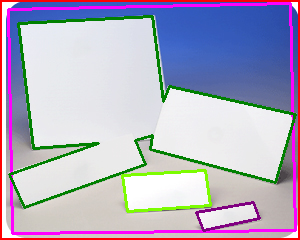
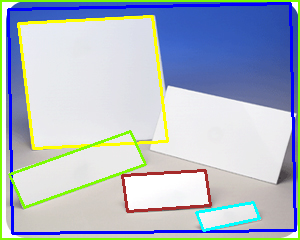
one more square to go

Changed region(s): [[0.0, 0.0, 1.0, 1.0], [0.63, 0.3792, 0.84, 0.4375]]

diff --git a/_masters_/ml/square-contours/contours.py b/_masters_/ml/square-contours/contours.py
@@ -46,6 +46,33 @@ class Vector:
         return f'{self.pt_from} -> {self.pt_to}'
 
 
+class SimpleSquare:
+    def __init__(self, p1: Point, p2: Point, p3: Point):
+        self.color_name = COLORS[random.randint(0, len(COLORS) - 1)]
+        p4 = self.predict_point(p1, p2, p3)
+        self.pts = [p1, p2, p3, p4]
+
+    def draw_on_current_canvas(self, img):
+        line_thickness = 2
+        for i in range(len(self.pts)):
+            curr_pt = self.pts[i]
+            next_pt = self.pts[(i + 1) % len(self.pts)]
+            cv2.line(img, (curr_pt.x, curr_pt.y), (next_pt.x, next_pt.y), self.color_bgr, line_thickness)
+        return img
+
+    @property
+    def color_bgr(self) -> tuple:
+        rgb = name_to_rgb(self.color_name)
+        return rgb[2], rgb[1], rgb[0]
+
+    def predict_point(self, p1: Point, p2: Point, p3: Point) -> Point:
+        delta_x = p3.x - p2.x
+        delta_y = p3.y - p2.y
+        new_x = p1.x + delta_x
+        new_y = p1.y + delta_y
+        return Point(new_x, new_y)
+
+
 class Figure:
     def __init__(self, contour):
         self.color_name = COLORS[random.randint(0, len(COLORS) - 1)]
@@ -65,6 +92,38 @@ class Figure:
         thickness = 2
         cv2.drawContours(img, [self.approx], draw_all_contours, self.color_bgr, thickness)
         return img
+
+    def split_into_squares(self) -> 'list[Figure]':
+        print(f'> splitting {self.color_name}')
+
+        # convert numpy points to normal points
+        points = []
+        for np_point in self.approx:
+            points.append(Point(np_point[0, 0], np_point[0, 1]))
+
+        squares = []
+        angles = []
+        for i in range(len(points)):
+            p1 = points[i]
+            p2 = points[(i + 1) % len(points)]
+            p3 = points[(i + 2) % len(points)]
+
+            v1 = Vector(p2, p1)
+            v2 = Vector(p2, p3)
+
+            curr_angle = directionwise_angle(v1, v2)
+            angles.append(curr_angle)
+
+            # try create square
+            if len(angles) > 4:
+                prev_angle = angles[i - 1]
+                prev_prev_angle = angles[i - 2]
+                if 175 < (curr_angle + prev_angle) < 185:
+                    if abs(prev_prev_angle - curr_angle) < 10:
+                        print('>>>> bingo')
+                        figure = SimpleSquare(points[i - 1], points[i], points[i + 1])
+                        squares.append(figure)
+        return squares
 
     @property
     def color_bgr(self) -> tuple:
@@ -88,27 +147,6 @@ def directionwise_angle(v1: Vector, v2: Vector) -> float:
     return r
 
 
-def draw_squares(img, figures: 'List[Figure]'):
-    for f in figures:
-        img = f.draw_on_current_canvas(img)
-    cv2.imwrite(f'./{RESULT_IMG_PATH}', img)
-
-
-def already_exists(new_figure: Figure, figures: list):
-    for fig in figures:
-        if abs(fig.area - new_figure.area) < 100:
-            return True
-    return False
-
-
-def print_figures(figures: list):
-    print('---')
-    [print(fig) for fig in figures]
-
-    # sharpenKernel = np.array([[-1, -1, -1], [-1, 10, -1], [-1, -1, -1]])
-    # img = cv2.filter2D(img, -1, sharpenKernel)
-
-
 def main():
     img = cv2.imread(SOURCE_IMG_PATH, cv2.IMREAD_GRAYSCALE)
     original = cv2.imread(SOURCE_IMG_PATH)
@@ -119,14 +157,18 @@ def main():
     figures = []
     for ctr in contours:
         f = Figure(ctr)
-        if f.is_polyhedron() and not already_exists(f, figures):
-            figures.append(f)
 
-    # sort by perimeter DESC to find biggest one
-    figures.sort(key=lambda fig: fig.area, reverse=True)
-    print_figures(figures)
+        if f.is_polyhedron():
+            if len(f.approx) == 4:
+                figures.append(f)
+            else:
+                squares = f.split_into_squares()
+                figures.extend(squares)
 
-    draw_squares(original, figures)
+    # draw
+    for f in figures:
+        original = f.draw_on_current_canvas(original)
+    cv2.imwrite(f'./{RESULT_IMG_PATH}', original)
 
 
 if __name__ == '__main__':
